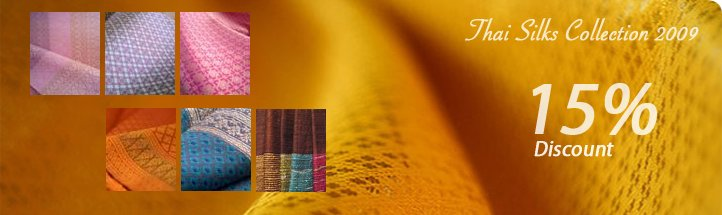
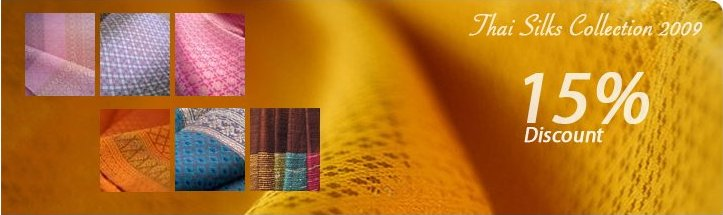
Adjust style Home page
git-svn-id: file:///home/svn/repositories/productfromthailand/trunk@55 c5cc9711-2349-4910-810f-657f1504bd7e

diff --git a/webapp/ecommerce/images/ecommain.css b/webapp/ecommerce/images/ecommain.css
@@ -378,6 +378,7 @@ margin-top: 5px;
 /* alt: position: absolute; left: 0px; top: 0px; */
 padding-left:10px;
 float: left;
+
 width: 200px;
 /* border:1px solid #000; */
 }
@@ -412,19 +413,16 @@ text-align: left;
 vertical-align: top;
 }
 #ecom-mainarea .center {
-margin-left: 210px;
-margin-right: 240px;
-voice-family: "\"}\"";
+margin-left: 215px;
+margin-right: 260px;
 voice-family: inherit;
 }
 #ecom-mainarea .leftonly {
 margin-left: 210px;
-voice-family: "\"}\"";
 voice-family: inherit;
 }
 #ecom-mainarea .rightonly {
 margin-right: 240px;
-voice-family: "\"}\"";
 voice-family: inherit;
 }
 
@@ -455,6 +453,7 @@ padding:1px 4px 3px;
 }
 
 .boxhead {
+text-align:center;
 height:25px;
 background-image:url(/pft/images/bt_bg.jpg);
 background-repeat:repeat-x;
@@ -948,7 +947,7 @@ text-align: right;
 
 .matrix .productsummary {
 border: none;
-padding: 5px 5px 5px 10px;
+padding: 5px 5px 5px 5px;
 height: 140px;
 width:  auto;
 }
@@ -958,8 +957,8 @@ float: none;
 text-align: center;
 }
 .matrix .productsummary .smallimage img {
-max-width:100px;
-height: 100px;
+width:140px;
+min-height: 100px;
 }
 
 .matrix .productsummary .productbuy {
@@ -1251,24 +1250,25 @@ border-top:none;
 .recentproduct{
 display:block;
 border-top:1px dotted #918732;
-min-height:50px;
+min-height:75px;
+height:75px;
 padding:5px 3px 10px 0px;
 
 }
 .recentproductimage img{
 float:left;
 padding:3px 3px 3px 0px;
-width:50px;
+width:75px;
 }
 
 #recentproductdetail a,a:visited,a:hover{
 text-decoration:none;
-font-size:1em;
+font-size:0.85em;
 font-weight:inherit;
 color:#322700;
 }
 #recentproductdetail h3{
-background:none;width:70%;float:right;color:#322700;
+background:none;width:65%;float:right;color:#322700;
 border-bottom: 1px solid #918732;
 line-height:1em;
 }
@@ -1294,10 +1294,16 @@ width:200px;
 height:auto !important;
 }
 #ecom-mainarea .leftbarscreenlet-body {
-padding: 4px;
-height:auto !important;
+padding: 0px;
+height:100% !important;
 }
-
+.banner{
+width:740px;
+float:right;
+}
+.banner img{
+padding:0px 0px 10px 5px;
+}
 #breadcrumbs ul{
 list-style:none;
 font-size:1em;
